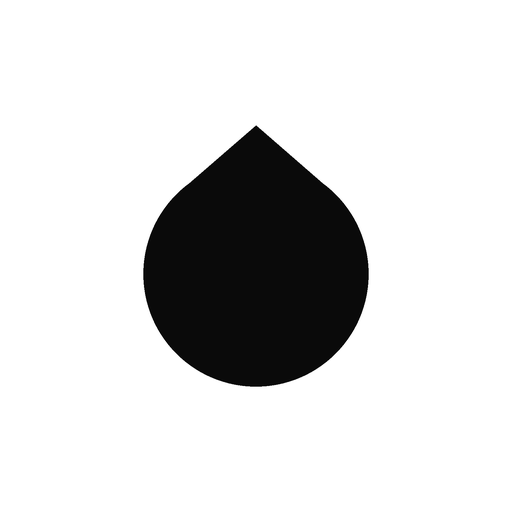
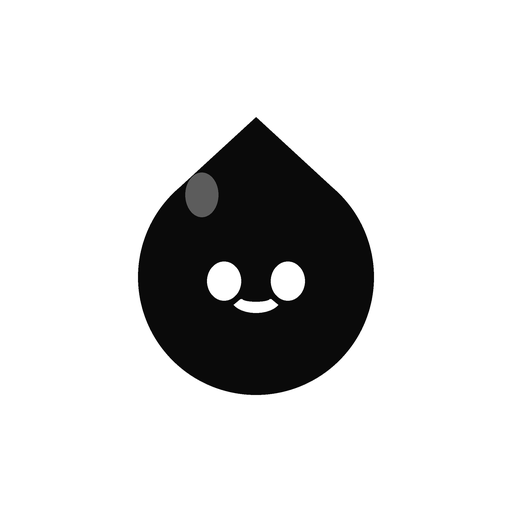
Cartoon water drop instead of the progress bar
- Drop the title block, keep only a small status dot
- The drop grows as you drink, blinks, and pops with a splash on each glass
- Thicker borders and rounder corners for a friendlier look
- App icons redrawn as the same drop character
- Service worker cache v1.2.0

diff --git a/index.html b/index.html
@@ -21,7 +21,7 @@
     --muted:#767676;
     --faint:#9a9a9a;
     --line:#e4e4e4;
-    --soft:#f6f6f6;
+    --soft:#f7f7f7;
     --fill:#0a0a0a;
     --onfill:#ffffff;
   }
@@ -47,116 +47,129 @@
     font-size:15px;
     line-height:1.5;
     -webkit-font-smoothing:antialiased;
-    padding:calc(env(safe-area-inset-top) + 26px) 20px calc(env(safe-area-inset-bottom) + 30px);
+    padding:calc(env(safe-area-inset-top) + 16px) 20px calc(env(safe-area-inset-bottom) + 30px);
   }
   .wrap{max-width:420px;margin:0 auto}
 
-  /* header */
-  header{display:flex;align-items:flex-start;justify-content:space-between;gap:12px;margin-bottom:34px}
-  h1{margin:0;font-size:19px;font-weight:600;letter-spacing:-.2px}
-  .sub{margin:1px 0 0;font-size:13px;color:var(--muted)}
-  .status{display:flex;align-items:center;gap:7px;font-size:12.5px;color:var(--muted);padding-top:3px;white-space:nowrap}
-  .dot{width:6px;height:6px;border-radius:50%;background:var(--faint);flex:0 0 auto}
+  /* status, top right only */
+  .topbar{display:flex;justify-content:flex-end;align-items:center;gap:7px;
+    font-size:12.5px;color:var(--muted);min-height:18px}
+  .dot{width:7px;height:7px;border-radius:50%;background:var(--faint);flex:0 0 auto;transition:background .2s ease}
   .dot.on{background:var(--ink)}
-  .dot.off{background:transparent;border:1px solid var(--faint)}
+  .dot.off{background:transparent;border:1.5px solid var(--faint)}
 
-  /* today */
-  section.today{margin-bottom:22px}
-  .big{display:flex;align-items:baseline;gap:6px;font-variant-numeric:tabular-nums}
-  .big .num{font-size:52px;font-weight:500;letter-spacing:-2.4px;line-height:1}
-  .big .of{font-size:16px;color:var(--muted);letter-spacing:0}
-  .track{height:5px;background:var(--line);border-radius:99px;margin:18px 0 10px;overflow:hidden}
-  .track i{display:block;height:100%;width:0;background:var(--fill);border-radius:99px;transition:width .45s cubic-bezier(.22,1,.36,1)}
-  .meta{display:flex;justify-content:space-between;font-size:13px;color:var(--muted)}
+  /* cartoon drop */
+  .stage{position:relative;display:flex;align-items:flex-end;justify-content:center;
+    height:184px;margin:6px 0 2px}
+  .drop{width:124px;height:160px;overflow:visible;color:var(--ink);display:block}
+  #dropG{transform-origin:50% 100%;transition:transform .6s cubic-bezier(.34,1.56,.64,1)}
+  .stage.pop .drop{animation:pop .5s cubic-bezier(.34,1.56,.64,1)}
+  @keyframes pop{0%{transform:scale(1)}35%{transform:scale(1.13)}70%{transform:scale(.97)}100%{transform:scale(1)}}
+  .stage::after{
+    content:"";position:absolute;bottom:2px;width:64px;height:64px;border-radius:50%;
+    border:2px solid var(--line);opacity:0;pointer-events:none;
+  }
+  .stage.pop::after{animation:splash .65s ease-out}
+  @keyframes splash{0%{transform:scale(.45);opacity:.85}100%{transform:scale(1.9);opacity:0}}
+  .eye{transform-box:fill-box;transform-origin:center;animation:blink 5.5s infinite}
+  @keyframes blink{0%,94%,100%{transform:scaleY(1)}96%,98%{transform:scaleY(.12)}}
 
-  /* next reminder line */
+  /* numbers */
+  .fig{display:flex;align-items:baseline;justify-content:center;gap:7px;
+    font-variant-numeric:tabular-nums;margin-top:6px}
+  .fig .num{font-size:46px;font-weight:600;letter-spacing:-2px;line-height:1}
+  .fig .of{font-size:15px;color:var(--muted)}
+  .meta{display:flex;justify-content:center;align-items:center;gap:8px;
+    font-size:13px;color:var(--muted);margin-top:8px}
+  .meta .sep{color:var(--line)}
+
+  /* next reminder */
   .next{
-    border:1px solid var(--line);border-radius:10px;padding:13px 15px;font-size:13.5px;
-    color:var(--muted);margin-bottom:14px;display:flex;justify-content:space-between;gap:12px;
+    border:1.5px solid var(--line);border-radius:16px;padding:14px 16px;font-size:13.5px;
+    color:var(--muted);margin:22px 0 12px;display:flex;justify-content:space-between;gap:12px;
   }
   .next b{color:var(--ink);font-weight:600;font-variant-numeric:tabular-nums}
 
   /* buttons */
   button{font:inherit;color:inherit;background:none;border:none;padding:0;cursor:pointer;touch-action:manipulation}
   .btn{
-    display:block;width:100%;text-align:center;padding:14px 12px;border-radius:10px;
-    border:1px solid var(--line);background:transparent;color:var(--ink);
-    font-size:14px;font-weight:500;transition:background .15s ease,transform .1s ease;
+    display:block;width:100%;text-align:center;padding:15px 12px;border-radius:16px;
+    border:1.5px solid var(--line);background:transparent;color:var(--ink);
+    font-size:14.5px;font-weight:600;transition:background .15s ease,transform .1s ease;
   }
-  .btn:active{transform:scale(.985)}
-  .btn.solid{background:var(--fill);color:var(--onfill);border-color:var(--fill);font-weight:600}
-  .btn.solid:disabled{opacity:.4;cursor:not-allowed}
-  .btn.sm{padding:10px 14px;font-size:13px;width:auto}
+  .btn:active{transform:scale(.98)}
+  .btn.solid{background:var(--fill);color:var(--onfill);border-color:var(--fill);font-weight:700}
+  .btn.sm{padding:11px 15px;font-size:13.5px;width:auto;border-radius:14px}
   .row{display:flex;gap:8px}
   .row .btn{flex:1}
   .adds{display:flex;flex-direction:column;gap:8px;margin-bottom:18px}
-  .adds .btn.solid span{color:inherit;opacity:.7;font-weight:500;margin-left:6px}
+  .adds .btn.solid span{color:inherit;opacity:.65;font-weight:600;margin-left:7px}
 
   /* notices */
-  .notice{border:1px solid var(--line);border-radius:10px;padding:15px;margin-bottom:14px;background:var(--soft)}
+  .notice{border:1.5px solid var(--line);border-radius:16px;padding:15px;margin-bottom:12px;background:var(--soft)}
   .notice p{margin:0 0 12px;font-size:13px;color:var(--muted);line-height:1.5}
   .notice .row{gap:8px}
   .notice.flat{background:transparent}
   .spread{display:flex;align-items:center;justify-content:space-between;gap:14px}
-  .spread strong{display:block;font-size:13.5px;font-weight:600}
+  .spread strong{display:block;font-size:13.5px;font-weight:700}
   .spread p{margin:2px 0 0;font-size:12.5px;color:var(--muted);line-height:1.45}
 
   /* week */
   .week{margin:26px 0 0}
-  .label{font-size:11.5px;letter-spacing:.9px;text-transform:uppercase;color:var(--faint);margin-bottom:12px}
-  .bars{display:flex;gap:6px;align-items:flex-end}
+  .label{font-size:11.5px;letter-spacing:.9px;text-transform:uppercase;color:var(--faint);margin-bottom:12px;font-weight:600}
+  .bars{display:flex;gap:7px;align-items:flex-end}
   .day{flex:1;display:flex;flex-direction:column;align-items:center;gap:8px}
-  .day .track-b{height:44px;width:100%;display:flex;align-items:flex-end}
-  .day .b{width:100%;background:var(--line);border-radius:2px;transition:height .45s cubic-bezier(.22,1,.36,1)}
+  .day .track-b{height:46px;width:100%;display:flex;align-items:flex-end}
+  .day .b{width:100%;background:var(--line);border-radius:6px;transition:height .5s cubic-bezier(.34,1.4,.64,1)}
   .day.has .b{background:var(--ink)}
   .day .d{font-size:10.5px;color:var(--faint);letter-spacing:.3px}
-  .day.today .d{color:var(--ink);font-weight:600}
+  .day.cur .d{color:var(--ink);font-weight:700}
 
   /* settings */
-  details{border-top:1px solid var(--line);margin-top:28px}
+  details{border-top:1.5px solid var(--line);margin-top:28px}
   summary{
     list-style:none;cursor:pointer;display:flex;align-items:center;justify-content:space-between;
-    padding:18px 2px;font-size:14px;font-weight:600;
+    padding:19px 2px;font-size:14.5px;font-weight:700;
   }
   summary::-webkit-details-marker{display:none}
-  summary .plus{color:var(--muted);font-weight:400;font-size:18px;line-height:1;transition:transform .2s ease}
+  summary .plus{color:var(--muted);font-weight:400;font-size:20px;line-height:1;transition:transform .2s ease}
   details[open] summary .plus{transform:rotate(45deg)}
   .set{display:flex;flex-direction:column;gap:22px;padding:2px 2px 6px}
-  .field > .fl{display:block;font-size:12px;letter-spacing:.5px;text-transform:uppercase;color:var(--faint);margin-bottom:9px}
-  .chips{display:flex;flex-wrap:wrap;gap:7px}
+  .field > .fl{display:block;font-size:11.5px;letter-spacing:.7px;text-transform:uppercase;color:var(--faint);margin-bottom:10px;font-weight:600}
+  .chips{display:flex;flex-wrap:wrap;gap:8px}
   .chip{
-    border:1px solid var(--line);border-radius:8px;padding:8px 12px;font-size:12.5px;
-    color:var(--muted);background:transparent;font-weight:500;
+    border:1.5px solid var(--line);border-radius:12px;padding:9px 13px;font-size:12.5px;
+    color:var(--muted);background:transparent;font-weight:600;
   }
   .chip[aria-pressed="true"]{background:var(--fill);border-color:var(--fill);color:var(--onfill)}
   input[type="time"]{
-    width:100%;background:transparent;border:1px solid var(--line);border-radius:8px;
+    width:100%;background:transparent;border:1.5px solid var(--line);border-radius:12px;
     color:var(--ink);padding:11px 12px;font:inherit;font-size:14px;font-variant-numeric:tabular-nums;
   }
   input:focus-visible,.chip:focus-visible,.btn:focus-visible,summary:focus-visible{outline:2px solid var(--ink);outline-offset:2px}
   .times{display:flex;align-items:center;gap:9px}
   .times span{font-size:13px;color:var(--faint)}
   .toggle{display:flex;align-items:center;justify-content:space-between;gap:14px;padding:2px 0}
-  .toggle .tl{font-size:14px}
+  .toggle .tl{font-size:14px;font-weight:600}
   .toggle .ts{font-size:12px;color:var(--muted);margin-top:1px}
-  .switch{position:relative;width:42px;height:25px;flex:0 0 auto}
+  .switch{position:relative;width:44px;height:26px;flex:0 0 auto}
   .switch input{position:absolute;inset:0;opacity:0;margin:0;cursor:pointer;width:100%;height:100%}
-  .switch i{position:absolute;inset:0;border-radius:99px;border:1px solid var(--line);transition:background .18s ease,border-color .18s ease}
+  .switch i{position:absolute;inset:0;border-radius:99px;border:1.5px solid var(--line);transition:background .18s ease,border-color .18s ease}
   .switch i::after{
     content:"";position:absolute;top:3px;left:3px;width:17px;height:17px;border-radius:50%;
     background:var(--muted);transition:transform .18s ease,background .18s ease;
   }
   .switch input:checked + i{background:var(--fill);border-color:var(--fill)}
-  .switch input:checked + i::after{transform:translateX(17px);background:var(--onfill)}
+  .switch input:checked + i::after{transform:translateX(18px);background:var(--onfill)}
   .hint{font-size:12px;color:var(--faint);line-height:1.55}
   .divider{height:1px;background:var(--line);margin:2px 0}
 
-  footer{margin-top:30px;padding-top:18px;border-top:1px solid var(--line);font-size:11.5px;color:var(--faint);line-height:1.7}
+  footer{margin-top:30px;padding-top:18px;border-top:1.5px solid var(--line);font-size:11.5px;color:var(--faint);line-height:1.7}
 
   .toast{
     position:fixed;left:50%;bottom:calc(env(safe-area-inset-bottom) + 24px);transform:translate(-50%,14px);
-    background:var(--fill);color:var(--onfill);padding:11px 18px;border-radius:10px;
-    font-size:13px;font-weight:500;opacity:0;pointer-events:none;
+    background:var(--fill);color:var(--onfill);padding:12px 19px;border-radius:14px;
+    font-size:13px;font-weight:600;opacity:0;pointer-events:none;
     transition:opacity .22s ease,transform .22s ease;z-index:60;max-width:88vw;text-align:center;
   }
   .toast.show{opacity:1;transform:translate(-50%,0)}
@@ -167,25 +180,34 @@
 <body>
 <div class="wrap">
 
-  <header>
-    <div>
-      <h1>Water</h1>
-      <p class="sub">Drink water reminder</p>
-    </div>
-    <div class="status"><span class="dot" id="statusDot"></span><span id="statusText">Checking</span></div>
-  </header>
+  <div class="topbar"><span class="dot" id="statusDot"></span><span id="statusText">Checking</span></div>
 
-  <section class="today">
-    <div class="big">
-      <span class="num" id="mlNow">0</span>
-      <span class="of">/ <span id="goalText">2000</span> ml</span>
-    </div>
-    <div class="track"><i id="barFill"></i></div>
-    <div class="meta">
-      <span id="glassText">0 of 8 glasses</span>
-      <span id="pctText">0%</span>
-    </div>
-  </section>
+  <div class="stage" id="stage">
+    <svg class="drop" viewBox="0 0 100 132" aria-hidden="true">
+      <g id="dropG">
+        <path id="dropPath" d="M50 5C50 5 88 50 88 82a38 38 0 0 1-76 0C12 50 50 5 50 5Z"
+              fill="currentColor" />
+        <ellipse cx="35" cy="55" rx="5.5" ry="10.5" fill="var(--bg)" opacity=".5"
+                 transform="rotate(-22 35 55)" />
+        <g fill="var(--bg)">
+          <ellipse class="eye" cx="38" cy="74" rx="4.6" ry="5.6" />
+          <ellipse class="eye" cx="62" cy="74" rx="4.6" ry="5.6" />
+        </g>
+        <path d="M42 90q8 7 16 0" fill="none" stroke="var(--bg)" stroke-width="4"
+              stroke-linecap="round" />
+      </g>
+    </svg>
+  </div>
+
+  <div class="fig">
+    <span class="num" id="mlNow">0</span>
+    <span class="of">/ <span id="goalText">2000</span> ml</span>
+  </div>
+  <div class="meta">
+    <span id="glassText">0 of 8 glasses</span>
+    <span class="sep">·</span>
+    <span id="pctText">0%</span>
+  </div>
 
   <div class="next" id="countdown">
     <span id="cdText">Reminders are off</span>
@@ -299,7 +321,7 @@
 
   <footer>
     Works offline. Everything stays on this device.<br />
-    <span id="version">v1.1.0</span>
+    <span id="version">v1.2.0</span>
   </footer>
 </div>
 
@@ -492,14 +514,22 @@
     return new Date(ts).toLocaleTimeString([], { hour: "numeric", minute: "2-digit" });
   }
 
-  function render() {
+  function renderDrop() {
     const s = state.settings;
     const pct = s.goalMl ? Math.min(1, state.mlToday / s.goalMl) : 0;
+    // the drop grows from 0.58 to 1 as you drink
+    const scale = 0.58 + 0.42 * pct;
+    $("dropG").style.transform = `scale(${scale.toFixed(3)})`;
+    return pct;
+  }
+
+  function render() {
+    const s = state.settings;
+    const pct = renderDrop();
 
     $("mlNow").textContent = state.mlToday;
     $("goalText").textContent = s.goalMl;
     $("pctText").textContent = Math.round(pct * 100) + "%";
-    $("barFill").style.width = (pct * 100) + "%";
 
     const glasses = state.mlToday / s.glassMl;
     $("glassText").textContent =
@@ -558,15 +588,15 @@
         key,
         label: d.toLocaleDateString([], { weekday: "narrow" }),
         ml: Number(state.history[key] || 0),
-        today: i === 0
+        cur: i === 0
       });
     }
     const max = Math.max(state.settings.goalMl, ...days.map(d => d.ml), 1);
-    const H = 44;
+    const H = 46;
     wrap.innerHTML = days.map(d => {
-      const h = d.ml > 0 ? Math.max(4, Math.round((d.ml / max) * H)) : 2;
+      const h = d.ml > 0 ? Math.max(5, Math.round((d.ml / max) * H)) : 2;
       return `
-      <div class="day ${d.today ? "today" : ""} ${d.ml > 0 ? "has" : ""}" title="${d.ml} ml">
+      <div class="day ${d.cur ? "cur" : ""} ${d.ml > 0 ? "has" : ""}" title="${d.ml} ml">
         <div class="track-b"><div class="b" style="height:${h}px"></div></div>
         <div class="d">${d.label}</div>
       </div>`;
@@ -611,11 +641,22 @@
     toast._t = setTimeout(() => t.classList.remove("show"), 2000);
   }
 
+  function pop() {
+    const st = $("stage");
+    st.classList.remove("pop");
+    void st.offsetWidth;
+    st.classList.add("pop");
+    clearTimeout(pop._t);
+    pop._t = setTimeout(() => st.classList.remove("pop"), 700);
+  }
+
   /* ---------------- actions ---------------- */
   function addWater(ml) {
     if (!ml) return;
     state.lastAdd = { ml, at: Date.now() };
     setToday(state.mlToday + ml);
+    pop();
+    if (state.settings.vibrate && navigator.vibrate) navigator.vibrate(18);
     toast(`Added ${ml} ml`);
   }
 

diff --git a/sw.js b/sw.js
@@ -1,7 +1,7 @@
 /* Drink Water Reminder — service worker
  * Offline shell cache + notification handling + best-effort background checks.
  */
-const VERSION = "1.1.0";
+const VERSION = "1.2.0";
 const CACHE = "water-shell-" + VERSION;
 
 const SHELL = [

diff --git a/README.md b/README.md
@@ -13,7 +13,7 @@ and it nudges you at your chosen interval — no account, no server, no tracking
 - **One permission prompt** — tap *Allow notifications* once, the reminder schedule starts immediately.
 - **Reminders that respect your day** — pick an interval (30 min → 2 hours) and a waking window
   (default 08:00–22:00). Nothing buzzes at night.
-- **Daily goal + streak tracking** — a thin progress bar, glass count, and a 7-day chart, all stored locally.
+- **Daily goal + streak tracking** — a friendly water drop that grows as you drink, plus a 7-day chart, all stored locally.
 - **Quick logging** — one tap for a glass, plus 100 ml / 500 ml buttons, undo, and a
   "Drank it 💧" action right on the notification.
 - **Works offline** — the whole app is cached by a service worker, so it opens instantly with no network.
